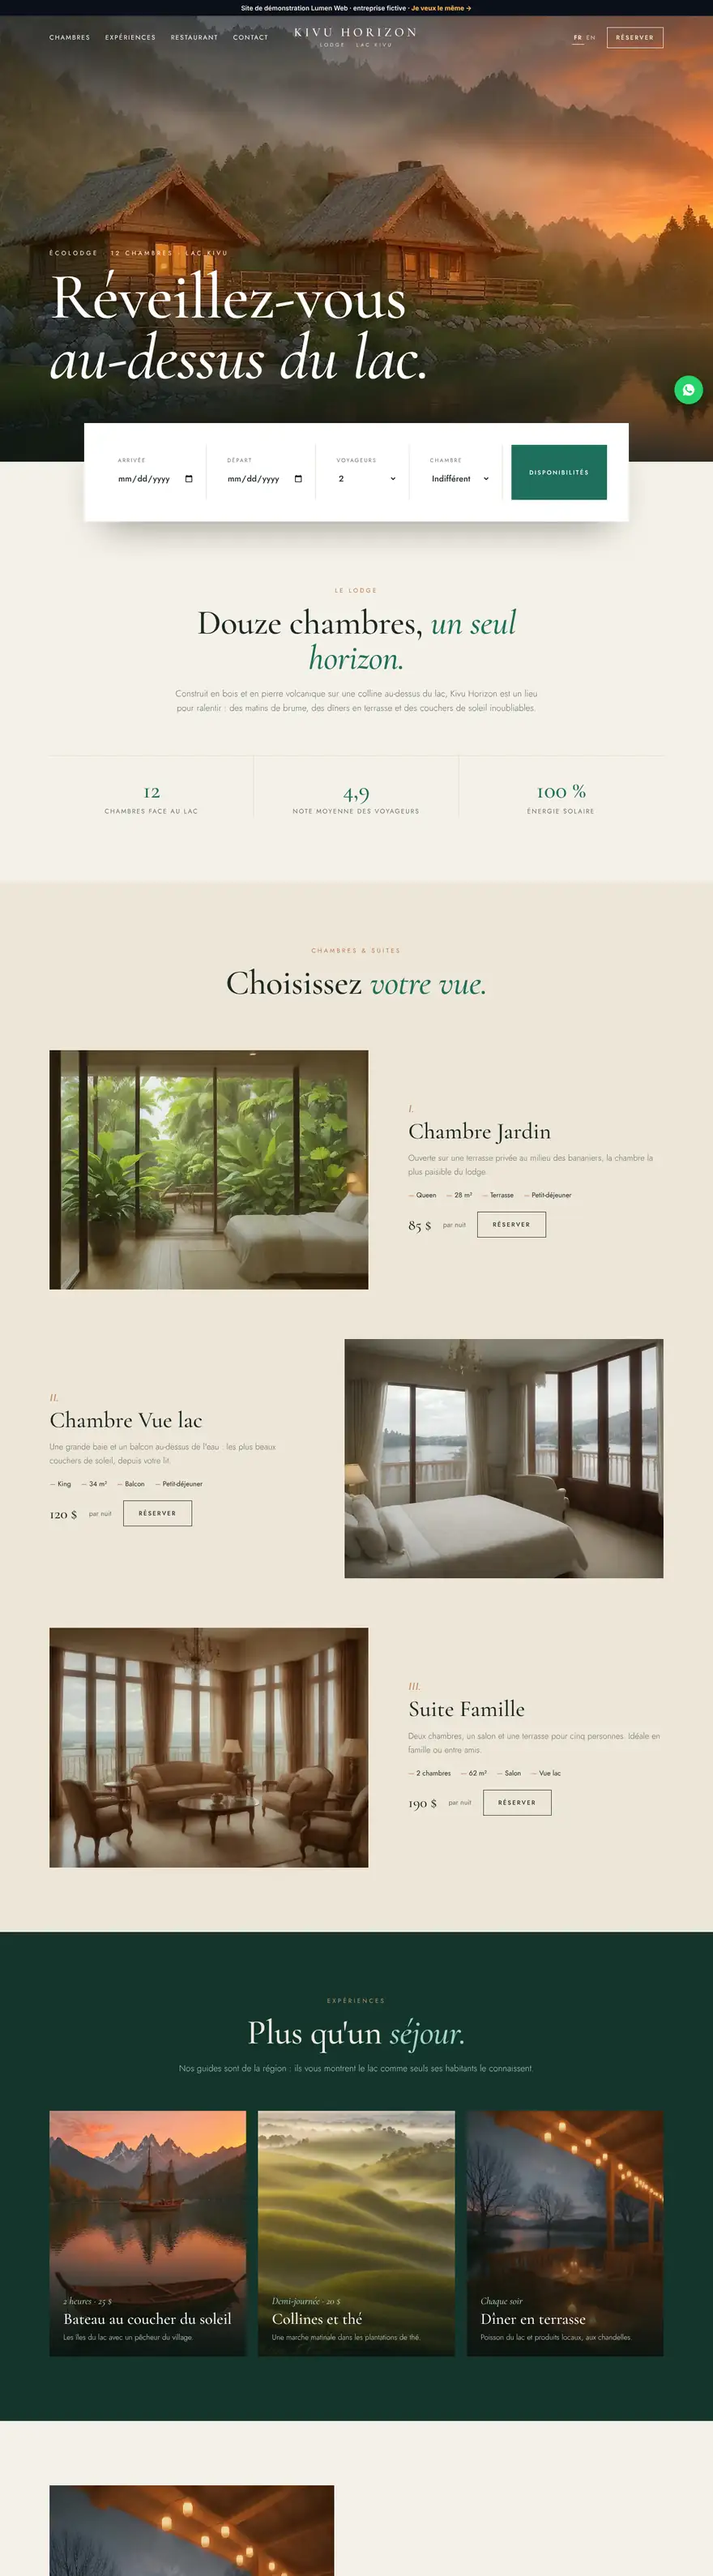
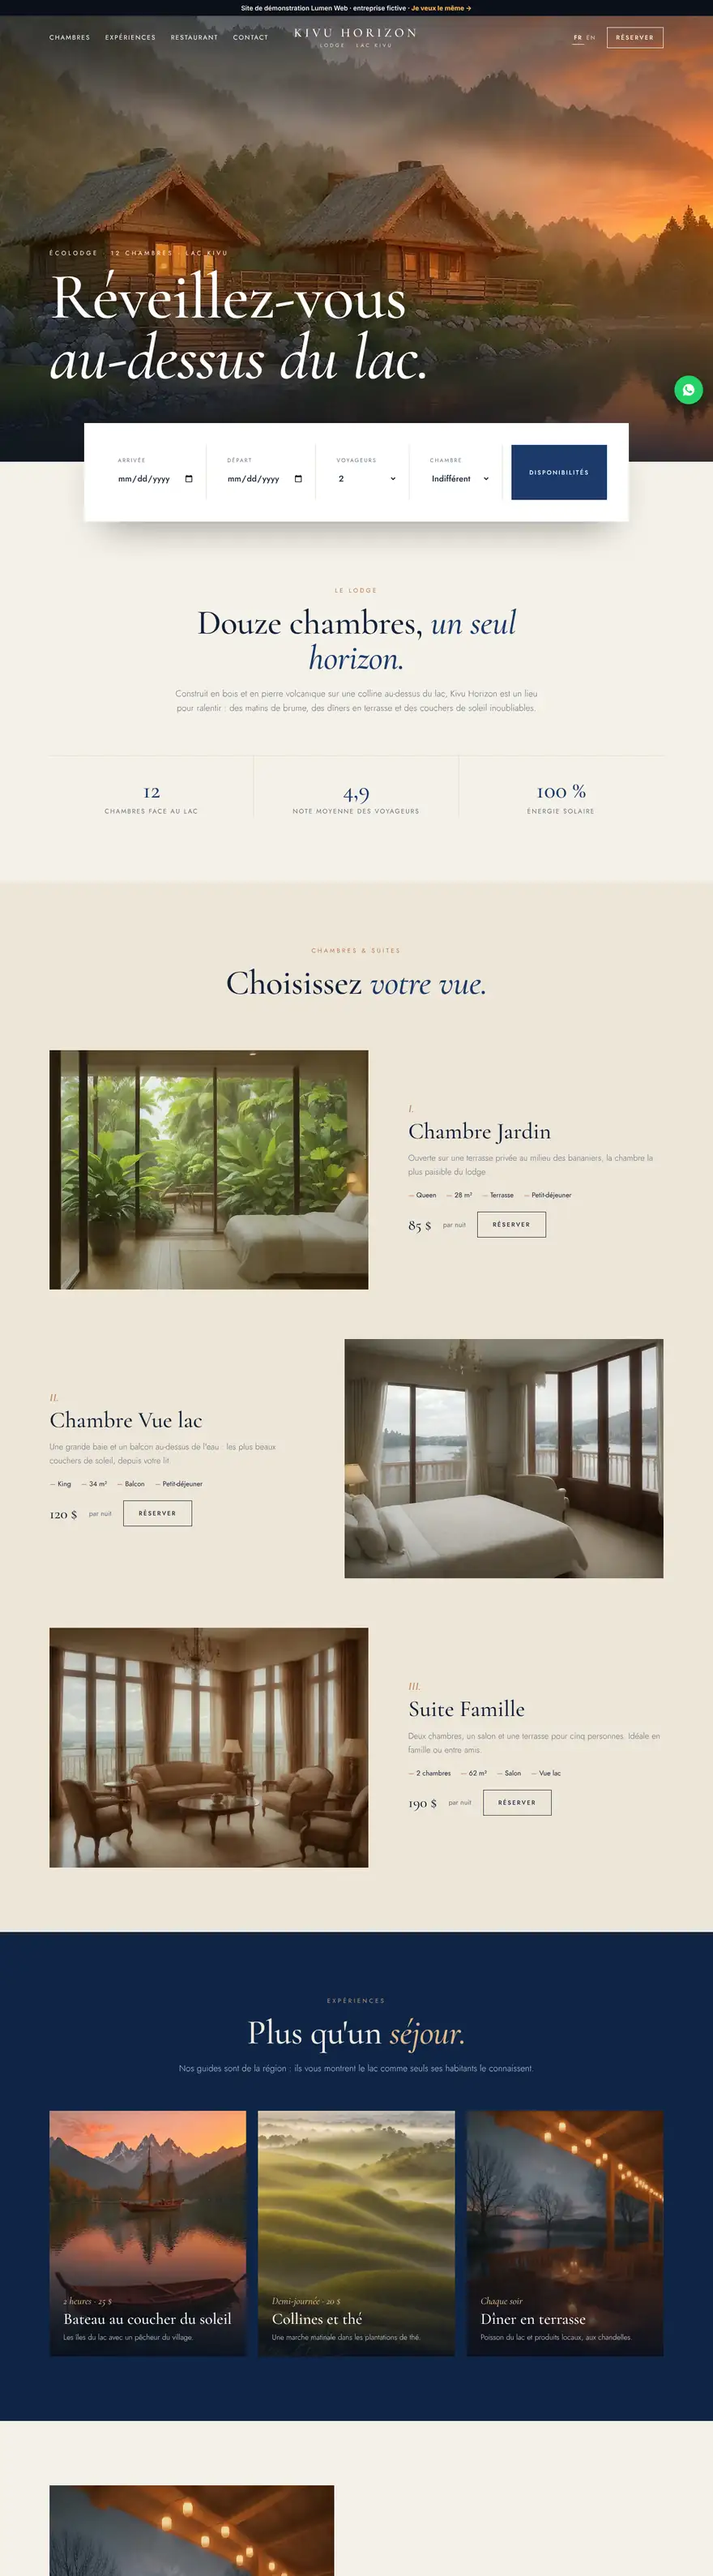
Démos en bleu marine (règle 60-30-10) : restaurant marine + or, hôtel crème + marine + cuivre, clinique sans couleurs parasites ; captures refaites
Claude-Session: https://claude.ai/code/session_01VUZR2LVKQQHHefueQWcFqJ

Changed region(s): [[0.0, 0.7476, 1.0, 0.9657], [0.7057, 0.1558, 0.8591, 0.2181]]

diff --git a/demos/restaurant/index.html b/demos/restaurant/index.html
@@ -7,7 +7,7 @@
 <link rel="preconnect" href="https://fonts.googleapis.com"><link rel="preconnect" href="https://fonts.gstatic.com" crossorigin>
 <link href="https://fonts.googleapis.com/css2?family=Playfair+Display:ital,wght@0,500;0,700;0,800;1,500&family=Caveat:wght@600&family=Inter:wght@400;500;600;700&display=swap" rel="stylesheet">
 <style>img{height:auto}
-  :root{--fond:#110C08;--fond2:#1A130D;--papier:#F3E7D2;--encre:#2A1B10;--or:#E9A23B;--rouge:#B8432A;--doux:#C7B39B;--filet:#33261A;--serif:'Playfair Display',Georgia,serif}
+  :root{--fond:#0A1730;--fond2:#0F203F;--papier:#F3E7D2;--encre:#14213A;--or:#E9A23B;--rouge:#C98A2E;--doux:#B4BED3;--filet:#22365C;--serif:'Playfair Display',Georgia,serif}
   *{margin:0;padding:0;box-sizing:border-box}html{scroll-behavior:smooth}
   body{font-family:Inter,system-ui,sans-serif;background:var(--fond);color:#F6EEE3;-webkit-font-smoothing:antialiased;line-height:1.6}
   a{color:inherit;text-decoration:none}img{display:block;max-width:100%}
@@ -15,21 +15,21 @@
   .bandeau{background:#0B0F1A;color:#F5F1E8;font:600 13px Inter;text-align:center;padding:8px 14px;position:relative;z-index:30}.bandeau a{color:#FFB547;font-weight:800}
   /* En-tête */
   header{position:fixed;left:0;right:0;top:36px;z-index:20;transition:background .3s,top .3s,box-shadow .3s}
-  header.defile{top:0;background:rgba(17,12,8,.92);backdrop-filter:blur(12px);box-shadow:0 1px 0 var(--filet)}
+  header.defile{top:0;background:rgba(10,23,48,.92);backdrop-filter:blur(12px);box-shadow:0 1px 0 var(--filet)}
   header .bloc{display:flex;align-items:center;justify-content:space-between;height:74px;gap:20px}
   .logo{font:800 22px var(--serif);letter-spacing:.01em}.logo span{color:var(--or)}
   header nav{display:flex;gap:30px;font-size:14px;letter-spacing:.1em;text-transform:uppercase}
   header nav a{opacity:.85}header nav a:hover{opacity:1;color:var(--or)}
   .droite{display:flex;align-items:center;gap:14px}
-  .lg{display:flex;gap:3px}.lg button{border:1px solid rgba(255,255,255,.25);background:none;color:#fff;font:700 11px Inter;padding:6px 9px;border-radius:4px;cursor:pointer}.lg button.on{background:var(--or);border-color:var(--or);color:#1E1206}
-  .btn{display:inline-flex;align-items:center;justify-content:center;gap:9px;padding:15px 28px;border-radius:3px;font:700 13px Inter;letter-spacing:.1em;text-transform:uppercase;background:var(--or);color:#1E1206;border:1px solid var(--or);cursor:pointer;transition:transform .2s,background .2s}
+  .lg{display:flex;gap:3px}.lg button{border:1px solid rgba(255,255,255,.25);background:none;color:#fff;font:700 11px Inter;padding:6px 9px;border-radius:4px;cursor:pointer}.lg button.on{background:var(--or);border-color:var(--or);color:#0A1426}
+  .btn{display:inline-flex;align-items:center;justify-content:center;gap:9px;padding:15px 28px;border-radius:3px;font:700 13px Inter;letter-spacing:.1em;text-transform:uppercase;background:var(--or);color:#0A1426;border:1px solid var(--or);cursor:pointer;transition:transform .2s,background .2s}
   .btn:hover{transform:translateY(-2px)}.btn.ligne{background:transparent;color:#fff;border-color:rgba(255,255,255,.45)}.btn svg{width:17px;height:17px;fill:currentColor}
   header .btn{padding:11px 18px}
   .burger{display:none;width:44px;height:44px;border:1px solid rgba(255,255,255,.25);border-radius:6px;background:none;color:#fff;font-size:20px;cursor:pointer}
   /* Accroche */
   .hero{height:100svh;min-height:640px;position:relative;display:flex;align-items:center;justify-content:center;text-align:center;overflow:hidden}
   .hero img{position:absolute;inset:0;width:100%;height:100%;object-fit:cover;transform:scale(1.05)}
-  .hero::after{content:"";position:absolute;inset:0;background:radial-gradient(70% 60% at 50% 55%,rgba(17,12,8,.35),rgba(17,12,8,.85)),linear-gradient(180deg,rgba(17,12,8,.6),transparent 30%,rgba(17,12,8,.95))}
+  .hero::after{content:"";position:absolute;inset:0;background:radial-gradient(70% 60% at 50% 55%,rgba(10,23,48,.35),rgba(10,23,48,.85)),linear-gradient(180deg,rgba(10,23,48,.6),transparent 30%,rgba(10,23,48,.95))}
   .hero .contenu{position:relative;z-index:1;padding:0 20px;max-width:920px}
   .script{font:600 clamp(26px,3vw,36px) Caveat,cursive;color:var(--or)}
   h1{font:800 clamp(56px,10.5vw,136px)/.92 var(--serif);letter-spacing:-.02em;margin:8px 0 24px;text-shadow:0 10px 40px rgba(0,0,0,.5)}
@@ -38,7 +38,7 @@
   .note{position:absolute;bottom:34px;left:50%;transform:translateX(-50%);z-index:1;display:flex;gap:26px;font-size:13px;color:#D8C6AE;letter-spacing:.06em;text-transform:uppercase;white-space:nowrap}
   .note b{color:var(--or)}
   /* Bande défilante */
-  .defile-bande{background:var(--rouge);color:#fff;overflow:hidden;white-space:nowrap;padding:16px 0;font:500 24px var(--serif)}
+  .defile-bande{background:var(--or);color:#0A1730;overflow:hidden;white-space:nowrap;padding:16px 0;font:500 24px var(--serif)}
   .defile-bande div{display:inline-block;animation:defile 38s linear infinite}@keyframes defile{to{transform:translateX(-50%)}}
   /* Histoire */
   section{padding:120px 0;position:relative}
@@ -72,9 +72,9 @@
   .carte h2{text-align:center}.carte .script{text-align:center;color:var(--rouge);margin:6px 0 44px}
   .col2{display:grid;grid-template-columns:1fr 1fr;gap:22px 70px}
   .cat{font:700 12px Inter;letter-spacing:.24em;text-transform:uppercase;color:var(--rouge);grid-column:1/-1;text-align:center;margin:16px 0 2px;display:flex;align-items:center;gap:16px}
-  .cat::before,.cat::after{content:"";flex:1;height:1px;background:rgba(42,27,16,.3)}
-  .lm{display:flex;align-items:baseline;gap:8px}.lm b{font:600 19px var(--serif)}.lm i{flex:1;border-bottom:2px dotted rgba(42,27,16,.35);transform:translateY(-4px)}.lm span{font-weight:700}
-  .desc{font-size:14px;color:#6E5641}
+  .cat::before,.cat::after{content:"";flex:1;height:1px;background:rgba(20,33,58,.3)}
+  .lm{display:flex;align-items:baseline;gap:8px}.lm b{font:600 19px var(--serif)}.lm i{flex:1;border-bottom:2px dotted rgba(20,33,58,.35);transform:translateY(-4px)}.lm span{font-weight:700}
+  .desc{font-size:14px;color:#5E6E8E}
   .carte .actions{text-align:center;margin-top:48px}.carte .btn.ligne{color:var(--encre);border-color:var(--encre)}
   /* Galerie */
   .galerie{display:grid;grid-template-columns:repeat(4,1fr);grid-auto-rows:260px;gap:12px}
@@ -109,10 +109,10 @@
   /* Carte de localisation stylisée */
   .plan{height:220px;margin-top:30px;border:1px solid var(--filet);position:relative;overflow:hidden;
         background:linear-gradient(90deg,rgba(255,255,255,.04) 1px,transparent 1px) 0 0/34px 34px,linear-gradient(rgba(255,255,255,.04) 1px,transparent 1px) 0 0/34px 34px,#17110C}
-  .plan::before{content:"";position:absolute;left:-10%;top:58%;width:120%;height:14px;background:#2A1F15;transform:rotate(-8deg)}
-  .plan::after{content:"";position:absolute;left:38%;top:-10%;width:12px;height:120%;background:#2A1F15;transform:rotate(12deg)}
+  .plan::before{content:"";position:absolute;left:-10%;top:58%;width:120%;height:14px;background:#1A2A48;transform:rotate(-8deg)}
+  .plan::after{content:"";position:absolute;left:38%;top:-10%;width:12px;height:120%;background:#1A2A48;transform:rotate(12deg)}
   .pin{position:absolute;left:44%;top:40%;z-index:1;font-size:34px;filter:drop-shadow(0 6px 10px rgba(0,0,0,.6))}
-  .plan a{position:absolute;right:12px;bottom:12px;z-index:1;background:var(--or);color:#1E1206;font:700 12px Inter;padding:8px 12px;letter-spacing:.06em;text-transform:uppercase}
+  .plan a{position:absolute;right:12px;bottom:12px;z-index:1;background:var(--or);color:#0A1426;font:700 12px Inter;padding:8px 12px;letter-spacing:.06em;text-transform:uppercase}
   footer{border-top:1px solid var(--filet);padding:60px 0 30px;color:var(--doux);font-size:14px}
   .pied{display:grid;grid-template-columns:1.4fr 1fr 1fr 1fr;gap:40px;margin-bottom:46px}
   .pied h4{color:#fff;font:700 15px Inter;letter-spacing:.12em;text-transform:uppercase;margin-bottom:14px}.pied a{display:block;margin-bottom:8px}.pied a:hover{color:var(--or)}
@@ -120,7 +120,7 @@
   .wa{position:fixed;right:18px;bottom:84px;width:58px;height:58px;border-radius:50%;background:#25D366;display:grid;place-items:center;z-index:25;box-shadow:0 12px 30px rgba(0,0,0,.45)}.wa svg{width:28px;fill:#fff}
   .anim .rv{opacity:0;transform:translateY(14px);transition:opacity .45s ease,transform .45s ease}.anim .rv.vu{opacity:1;transform:none}
   @media(max-width:980px){
-    header nav{display:none;position:absolute;top:74px;left:0;right:0;flex-direction:column;gap:0;background:rgba(17,12,8,.98);border-top:1px solid var(--filet)}
+    header nav{display:none;position:absolute;top:74px;left:0;right:0;flex-direction:column;gap:0;background:rgba(10,23,48,.98);border-top:1px solid var(--filet)}
     header nav.ouvert{display:flex}header nav a{padding:16px 20px;border-bottom:1px solid var(--filet)}
     .burger{display:block}header .btn{display:none}
     .histoire .bloc,.resa .bloc,.evt .bloc{grid-template-columns:1fr;gap:40px}.duo-photos{height:420px}

diff --git a/demos/hotel/index.html b/demos/hotel/index.html
@@ -7,7 +7,7 @@
 <link rel="preconnect" href="https://fonts.googleapis.com"><link rel="preconnect" href="https://fonts.gstatic.com" crossorigin>
 <link href="https://fonts.googleapis.com/css2?family=Cormorant+Garamond:ital,wght@0,500;0,600;1,500&family=Jost:wght@300;400;500;600&display=swap" rel="stylesheet">
 <style>img{height:auto}
-  :root{--sable:#F5F1E8;--sable2:#EDE6D8;--encre:#1C2925;--vert:#1F6F5C;--vert-f:#14352D;--cuivre:#B87343;--doux:#67726D;--filet:#DCD4C4;--serif:'Cormorant Garamond',Georgia,serif}
+  :root{--sable:#F5F1E8;--sable2:#EDE6D8;--encre:#13213A;--vert:#1B3A6B;--vert-f:#0F2547;--cuivre:#B87343;--doux:#667089;--filet:#DCD4C4;--serif:'Cormorant Garamond',Georgia,serif}
   *{margin:0;padding:0;box-sizing:border-box}html{scroll-behavior:smooth}
   body{font-family:Jost,system-ui,sans-serif;font-weight:400;background:var(--sable);color:var(--encre);-webkit-font-smoothing:antialiased;line-height:1.65}
   a{color:inherit;text-decoration:none}img{display:block;max-width:100%}
@@ -28,7 +28,7 @@
   /* Accroche */
   .hero{height:100svh;min-height:660px;position:relative;display:flex;align-items:flex-end;color:#fff;overflow:hidden}
   .hero img{position:absolute;inset:0;width:100%;height:100%;object-fit:cover;animation:zoom 18s ease-out both}@keyframes zoom{from{transform:scale(1.12)}}
-  .hero::after{content:"";position:absolute;inset:0;background:linear-gradient(180deg,rgba(0,0,0,.35),transparent 30%,transparent 50%,rgba(10,20,17,.78))}
+  .hero::after{content:"";position:absolute;inset:0;background:linear-gradient(180deg,rgba(0,0,0,.35),transparent 30%,transparent 50%,rgba(10,18,34,.78))}
   .hero .contenu{position:relative;z-index:1;padding-bottom:150px}
   .hero small{letter-spacing:.38em;text-transform:uppercase;font-size:12px}
   h1{font:500 clamp(56px,9.4vw,132px)/.92 var(--serif);margin:16px 0 0;letter-spacing:-.01em}h1 em{font-style:italic}
@@ -58,13 +58,13 @@
   .ch ul{list-style:none;display:flex;flex-wrap:wrap;gap:8px 20px;margin:22px 0;font-size:14px;color:var(--encre)}.ch li::before{content:"— ";color:var(--cuivre)}
   .ch .prix{display:flex;align-items:center;gap:24px;margin-top:10px;flex-wrap:wrap}.ch .prix b{font:500 30px var(--serif)}.ch .prix small{color:var(--doux);font-size:14px}
   /* Expériences : cartes verticales */
-  .exp{background:var(--vert-f);color:#EFE9DC}.exp h2 em{color:#9ED7C2}.exp .centre p{color:#B5C3BC}
+  .exp{background:var(--vert-f);color:#EFE9DC}.exp h2 em{color:#E3B98A}.exp .centre p{color:#B8C3D6}
   .exp-grille{display:grid;grid-template-columns:repeat(3,1fr);gap:24px;margin-top:70px}
   .carte-exp{position:relative;aspect-ratio:4/5;overflow:hidden}
   .carte-exp img{width:100%;height:100%;object-fit:cover;transition:transform 1s}.carte-exp:hover img{transform:scale(1.06)}
-  .carte-exp::after{content:"";position:absolute;inset:0;background:linear-gradient(180deg,transparent 40%,rgba(8,20,16,.9))}
+  .carte-exp::after{content:"";position:absolute;inset:0;background:linear-gradient(180deg,transparent 40%,rgba(8,16,32,.9))}
   .carte-exp div{position:absolute;left:28px;right:28px;bottom:26px;z-index:1}
-  .carte-exp b{font:italic 500 20px var(--serif);color:#9ED7C2}.carte-exp h3{font:500 32px/1.1 var(--serif);margin:4px 0 8px;color:#fff}.carte-exp p{font-size:15px;color:#D5DDD8;font-weight:300}
+  .carte-exp b{font:italic 500 20px var(--serif);color:#E3B98A}.carte-exp h3{font:500 32px/1.1 var(--serif);margin:4px 0 8px;color:#fff}.carte-exp p{font-size:15px;color:#D5DCE8;font-weight:300}
   /* Restaurant */
   .table .bloc{display:grid;grid-template-columns:1fr 1fr;gap:90px;align-items:center}
   .table img{width:100%;aspect-ratio:4/5;object-fit:cover}
@@ -81,12 +81,12 @@
   summary::-webkit-details-marker{display:none}summary::after{content:"+";color:var(--cuivre);font-family:Jost;font-weight:300;font-size:28px;transition:transform .3s}details[open] summary::after{transform:rotate(45deg)}
   details p{color:var(--doux);font-weight:300;margin-top:12px}
   /* Contact */
-  .contact{background:var(--encre);color:#EFE9DC}.contact h2 em{color:#9ED7C2}
+  .contact{background:var(--encre);color:#EFE9DC}.contact h2 em{color:#E3B98A}
   .contact .bloc{display:grid;grid-template-columns:1fr 1.1fr;gap:80px}
-  .coord{margin-top:40px;display:grid;gap:22px}.coord span{display:block;font-size:12px;letter-spacing:.24em;text-transform:uppercase;color:#93A59C}.coord p{font:500 22px var(--serif)}
+  .coord{margin-top:40px;display:grid;gap:22px}.coord span{display:block;font-size:12px;letter-spacing:.24em;text-transform:uppercase;color:#93A3BD}.coord p{font:500 22px var(--serif)}
   .canaux{display:flex;flex-wrap:wrap;gap:12px;margin-top:36px}
-  .canal{display:inline-flex;align-items:center;gap:10px;border:1px solid rgba(255,255,255,.25);padding:13px 18px;font-size:13px;letter-spacing:.14em;text-transform:uppercase;transition:border-color .3s}.canal:hover{border-color:#9ED7C2}
-  .canal svg{width:17px;fill:#9ED7C2}
+  .canal{display:inline-flex;align-items:center;gap:10px;border:1px solid rgba(255,255,255,.25);padding:13px 18px;font-size:13px;letter-spacing:.14em;text-transform:uppercase;transition:border-color .3s}.canal:hover{border-color:#E3B98A}
+  .canal svg{width:17px;fill:#E3B98A}
   form{background:#F5F1E8;color:var(--encre);padding:44px;display:grid;gap:18px}
   form h3{font:500 34px var(--serif)}
   .deux{display:grid;grid-template-columns:1fr 1fr;gap:14px}
@@ -94,7 +94,7 @@
   form input,form select,form textarea{display:block;width:100%;margin-top:8px;border:0;border-bottom:1px solid #BDB4A2;background:none;font:400 17px Jost;color:var(--encre);padding:8px 0}
   form input:focus,form select:focus,form textarea:focus{outline:none;border-color:var(--vert)}
   .choix{display:flex;gap:18px;flex-wrap:wrap;margin-top:10px}.choix label{display:flex;align-items:center;gap:8px;letter-spacing:.06em;text-transform:none;font-size:15px;color:var(--encre)}.choix input{width:auto;margin:0;accent-color:var(--vert)}
-  footer{background:#111C19;color:#93A59C;padding:70px 0 30px;font-size:14px}
+  footer{background:#111C19;color:#93A3BD;padding:70px 0 30px;font-size:14px}
   .pied{display:grid;grid-template-columns:1.5fr 1fr 1fr 1fr;gap:40px;padding-bottom:50px;border-bottom:1px solid rgba(255,255,255,.1)}
   .pied .marque{text-align:left;color:#EFE9DC}.pied h4{color:#EFE9DC;font:500 12px Jost;letter-spacing:.24em;text-transform:uppercase;margin-bottom:16px}.pied a{display:block;margin-bottom:9px}.pied a:hover{color:#fff}
   .bas{display:flex;justify-content:space-between;flex-wrap:wrap;gap:10px;padding-top:24px}

diff --git a/demos/clinique/index.html b/demos/clinique/index.html
@@ -7,7 +7,7 @@
 <link rel="preconnect" href="https://fonts.googleapis.com"><link rel="preconnect" href="https://fonts.gstatic.com" crossorigin>
 <link href="https://fonts.googleapis.com/css2?family=Plus+Jakarta+Sans:wght@400;500;600;700;800&display=swap" rel="stylesheet">
 <style>img{height:auto}
-  :root{--bleu:#1E6FE0;--bleu-f:#0F4FB0;--bleu-c:#EAF2FF;--encre:#0E1F3A;--doux:#5A6B85;--fond:#F6F8FC;--rouge:#E5484D;--vert:#12A37A;--filet:#E1E7F1;--r:20px}
+  :root{--bleu:#1E6FE0;--bleu-f:#0F4FB0;--bleu-c:#EAF2FF;--encre:#0E1F3A;--doux:#5A6B85;--fond:#F6F8FC;--rouge:#E5484D;--vert:#1E6FE0;--filet:#E1E7F1;--r:20px}
   *{margin:0;padding:0;box-sizing:border-box}html{scroll-behavior:smooth}
   body{font-family:'Plus Jakarta Sans',system-ui,sans-serif;background:var(--fond);color:var(--encre);-webkit-font-smoothing:antialiased;line-height:1.6}
   a{color:inherit;text-decoration:none}img{display:block;max-width:100%}button,input,select,textarea{font-family:inherit}
@@ -32,7 +32,7 @@
   .hero{padding:64px 0 90px;background:radial-gradient(60% 70% at 90% 0%,rgba(30,111,224,.10),transparent 60%)}
   .hero .bloc{display:grid;grid-template-columns:1.05fr .95fr;gap:56px;align-items:center}
   .puce{display:inline-flex;gap:8px;align-items:center;background:#fff;border:1px solid var(--filet);color:var(--encre);font-weight:600;font-size:13px;padding:7px 13px;border-radius:999px}
-  .puce::before{content:"";width:8px;height:8px;border-radius:50%;background:var(--vert);box-shadow:0 0 0 4px rgba(18,163,122,.18)}
+  .puce::before{content:"";width:8px;height:8px;border-radius:50%;background:var(--vert);box-shadow:0 0 0 4px rgba(30,111,224,.18)}
   h1{font-weight:800;font-size:clamp(40px,5.4vw,66px);line-height:1.04;letter-spacing:-.035em;margin:18px 0}h1 span{color:var(--bleu)}
   .hero p{color:var(--doux);font-size:18px;max-width:48ch}
   .hero .actions{display:flex;gap:12px;margin-top:30px;flex-wrap:wrap}
@@ -166,9 +166,9 @@
   <div class="tete rv"><div><span class="sur" data-en="Team">Équipe</span><h2 data-en="Doctors who take the time">Des médecins qui prennent le temps</h2></div><p data-en="Fictional team (demo).">Équipe fictive (démonstration).</p></div>
   <div class="medecins">
     <div class="doc rv"><div class="av" style="--c:linear-gradient(135deg,#1E6FE0,#5BA0FF)">AM</div><h3>Dr A. Mbuyi</h3><p data-en="General practitioner">Médecin généraliste</p><small data-en="Available today">Disponible aujourd'hui</small></div>
-    <div class="doc rv"><div class="av" style="--c:linear-gradient(135deg,#12A37A,#4FD3AC)">JI</div><h3>Dr J. Ilunga</h3><p data-en="Paediatrician">Pédiatre</p><small data-en="Available today">Disponible aujourd'hui</small></div>
-    <div class="doc rv"><div class="av" style="--c:linear-gradient(135deg,#7A4FE0,#A98BFF)">RT</div><h3>Dr R. Tshala</h3><p data-en="Gynaecologist">Gynécologue</p><small data-en="Tomorrow">Demain</small></div>
-    <div class="doc rv"><div class="av" style="--c:linear-gradient(135deg,#E07A1E,#FFB15B)">PK</div><h3>Dr P. Kasongo</h3><p data-en="Biologist">Biologiste</p><small data-en="Available today">Disponible aujourd'hui</small></div>
+    <div class="doc rv"><div class="av" style="--c:linear-gradient(135deg,#0E1F3A,#2A4A7F)">JI</div><h3>Dr J. Ilunga</h3><p data-en="Paediatrician">Pédiatre</p><small data-en="Available today">Disponible aujourd'hui</small></div>
+    <div class="doc rv"><div class="av" style="--c:linear-gradient(135deg,#0F4FB0,#4C95FF)">RT</div><h3>Dr R. Tshala</h3><p data-en="Gynaecologist">Gynécologue</p><small data-en="Tomorrow">Demain</small></div>
+    <div class="doc rv"><div class="av" style="--c:linear-gradient(135deg,#1B3A6B,#5B7FB8)">PK</div><h3>Dr P. Kasongo</h3><p data-en="Biologist">Biologiste</p><small data-en="Available today">Disponible aujourd'hui</small></div>
   </div>
 </div></section>
 
